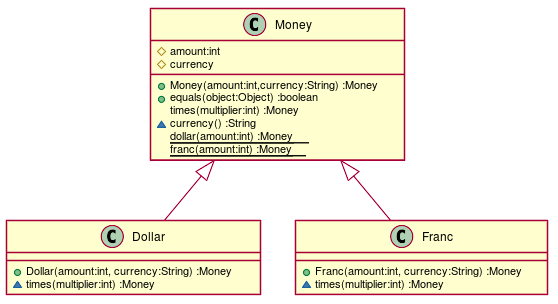
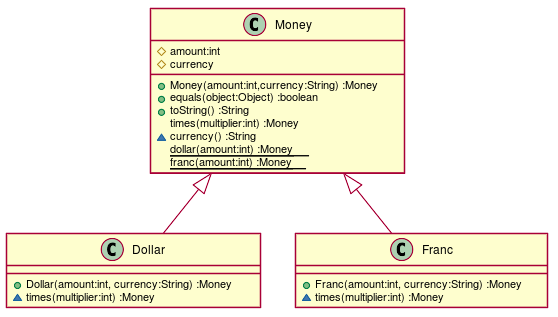
第１０章 テストに聞いてみる Step8

Changed region(s): [[0.0, 0.0, 1.0, 0.977]]

diff --git a/src/main/java/tdd/money/Money.java b/src/main/java/tdd/money/Money.java
@@ -18,6 +18,9 @@ class Money {
         return amount == money.amount
                 && getClass().equals(money.getClass());
     }
+    public String toString() {
+        return amount + " " + currency;
+    }
     static Money dollar(int amount) {
         return new Dollar(amount, "USD");
     }

diff --git a/docs/TDD.md b/docs/TDD.md
@@ -59,7 +59,7 @@
 ### クラス図
   
 
-![](./assets/0285dfa24ee25b18e00bb369b57da6820.png?0.09082671094555828)  
+![](./assets/0285dfa24ee25b18e00bb369b57da6820.png?0.21225647317268437)  
 ### シーケンス図
   
   
@@ -153,6 +153,9 @@ class Money {
         Money money = (Money) object;
         return amount == money.amount
                 && getClass().equals(money.getClass());
+    }
+    public String toString() {
+        return amount + " " + currency;
     }
     static Money dollar(int amount) {
         return new Dollar(amount, "USD");

diff --git a/docs/src/TDD.md b/docs/src/TDD.md
@@ -73,6 +73,7 @@ class Money {
   #currency  
   +Money(amount:int,currency:String) :Money
   +equals(object:Object) :boolean  
+  +toString() :String
   times(multiplier:int) :Money
   ~currency() :String
   {static} dollar(amount:int) :Money
